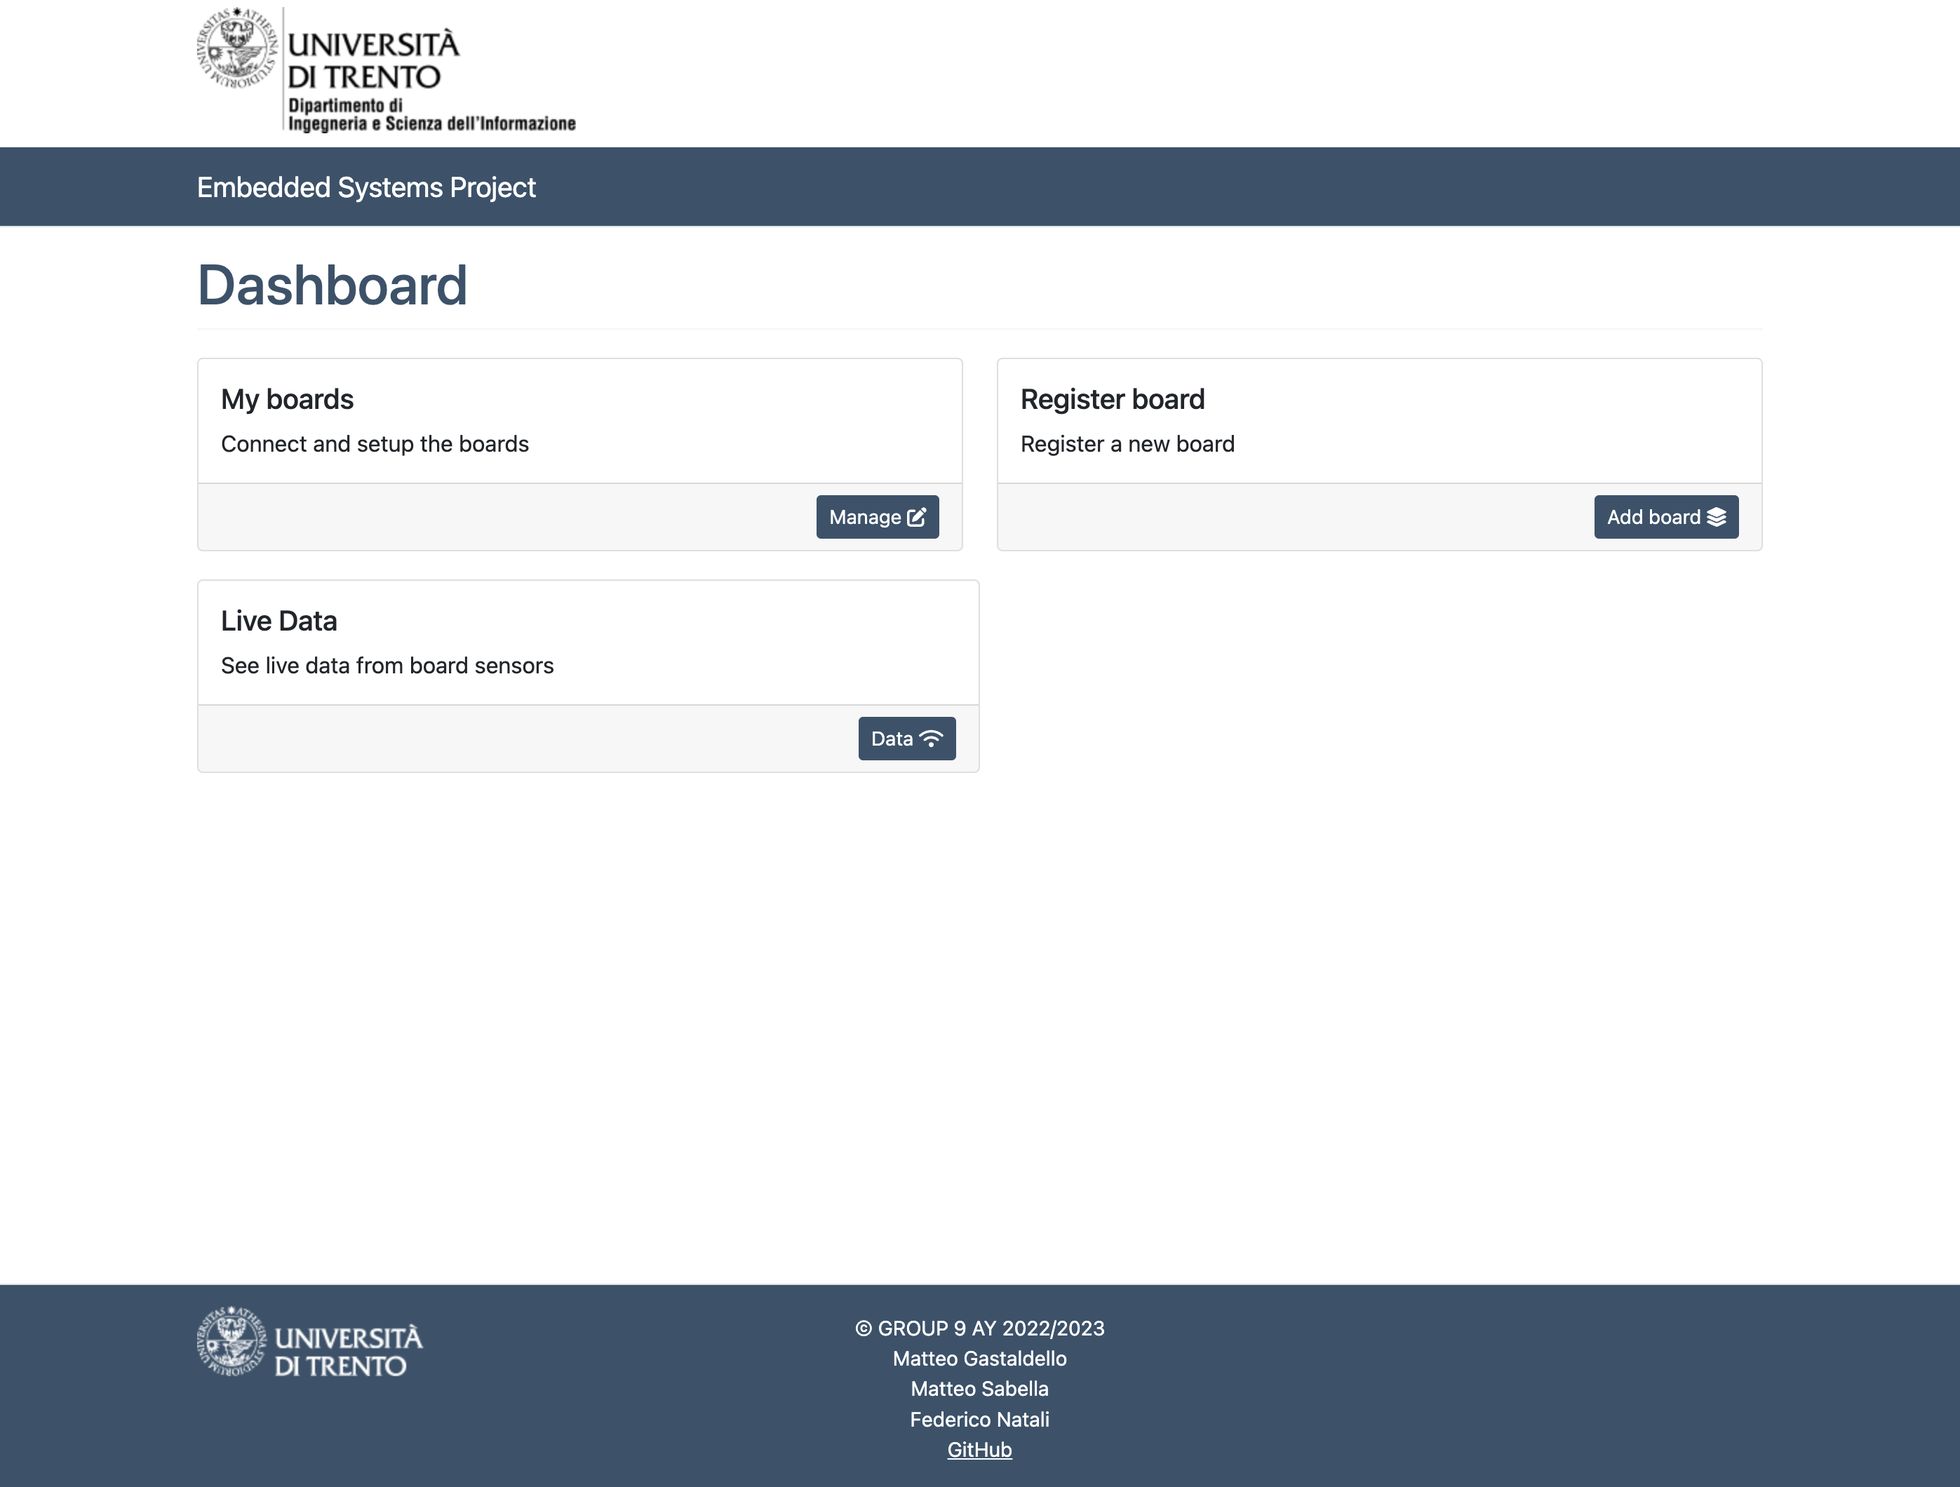
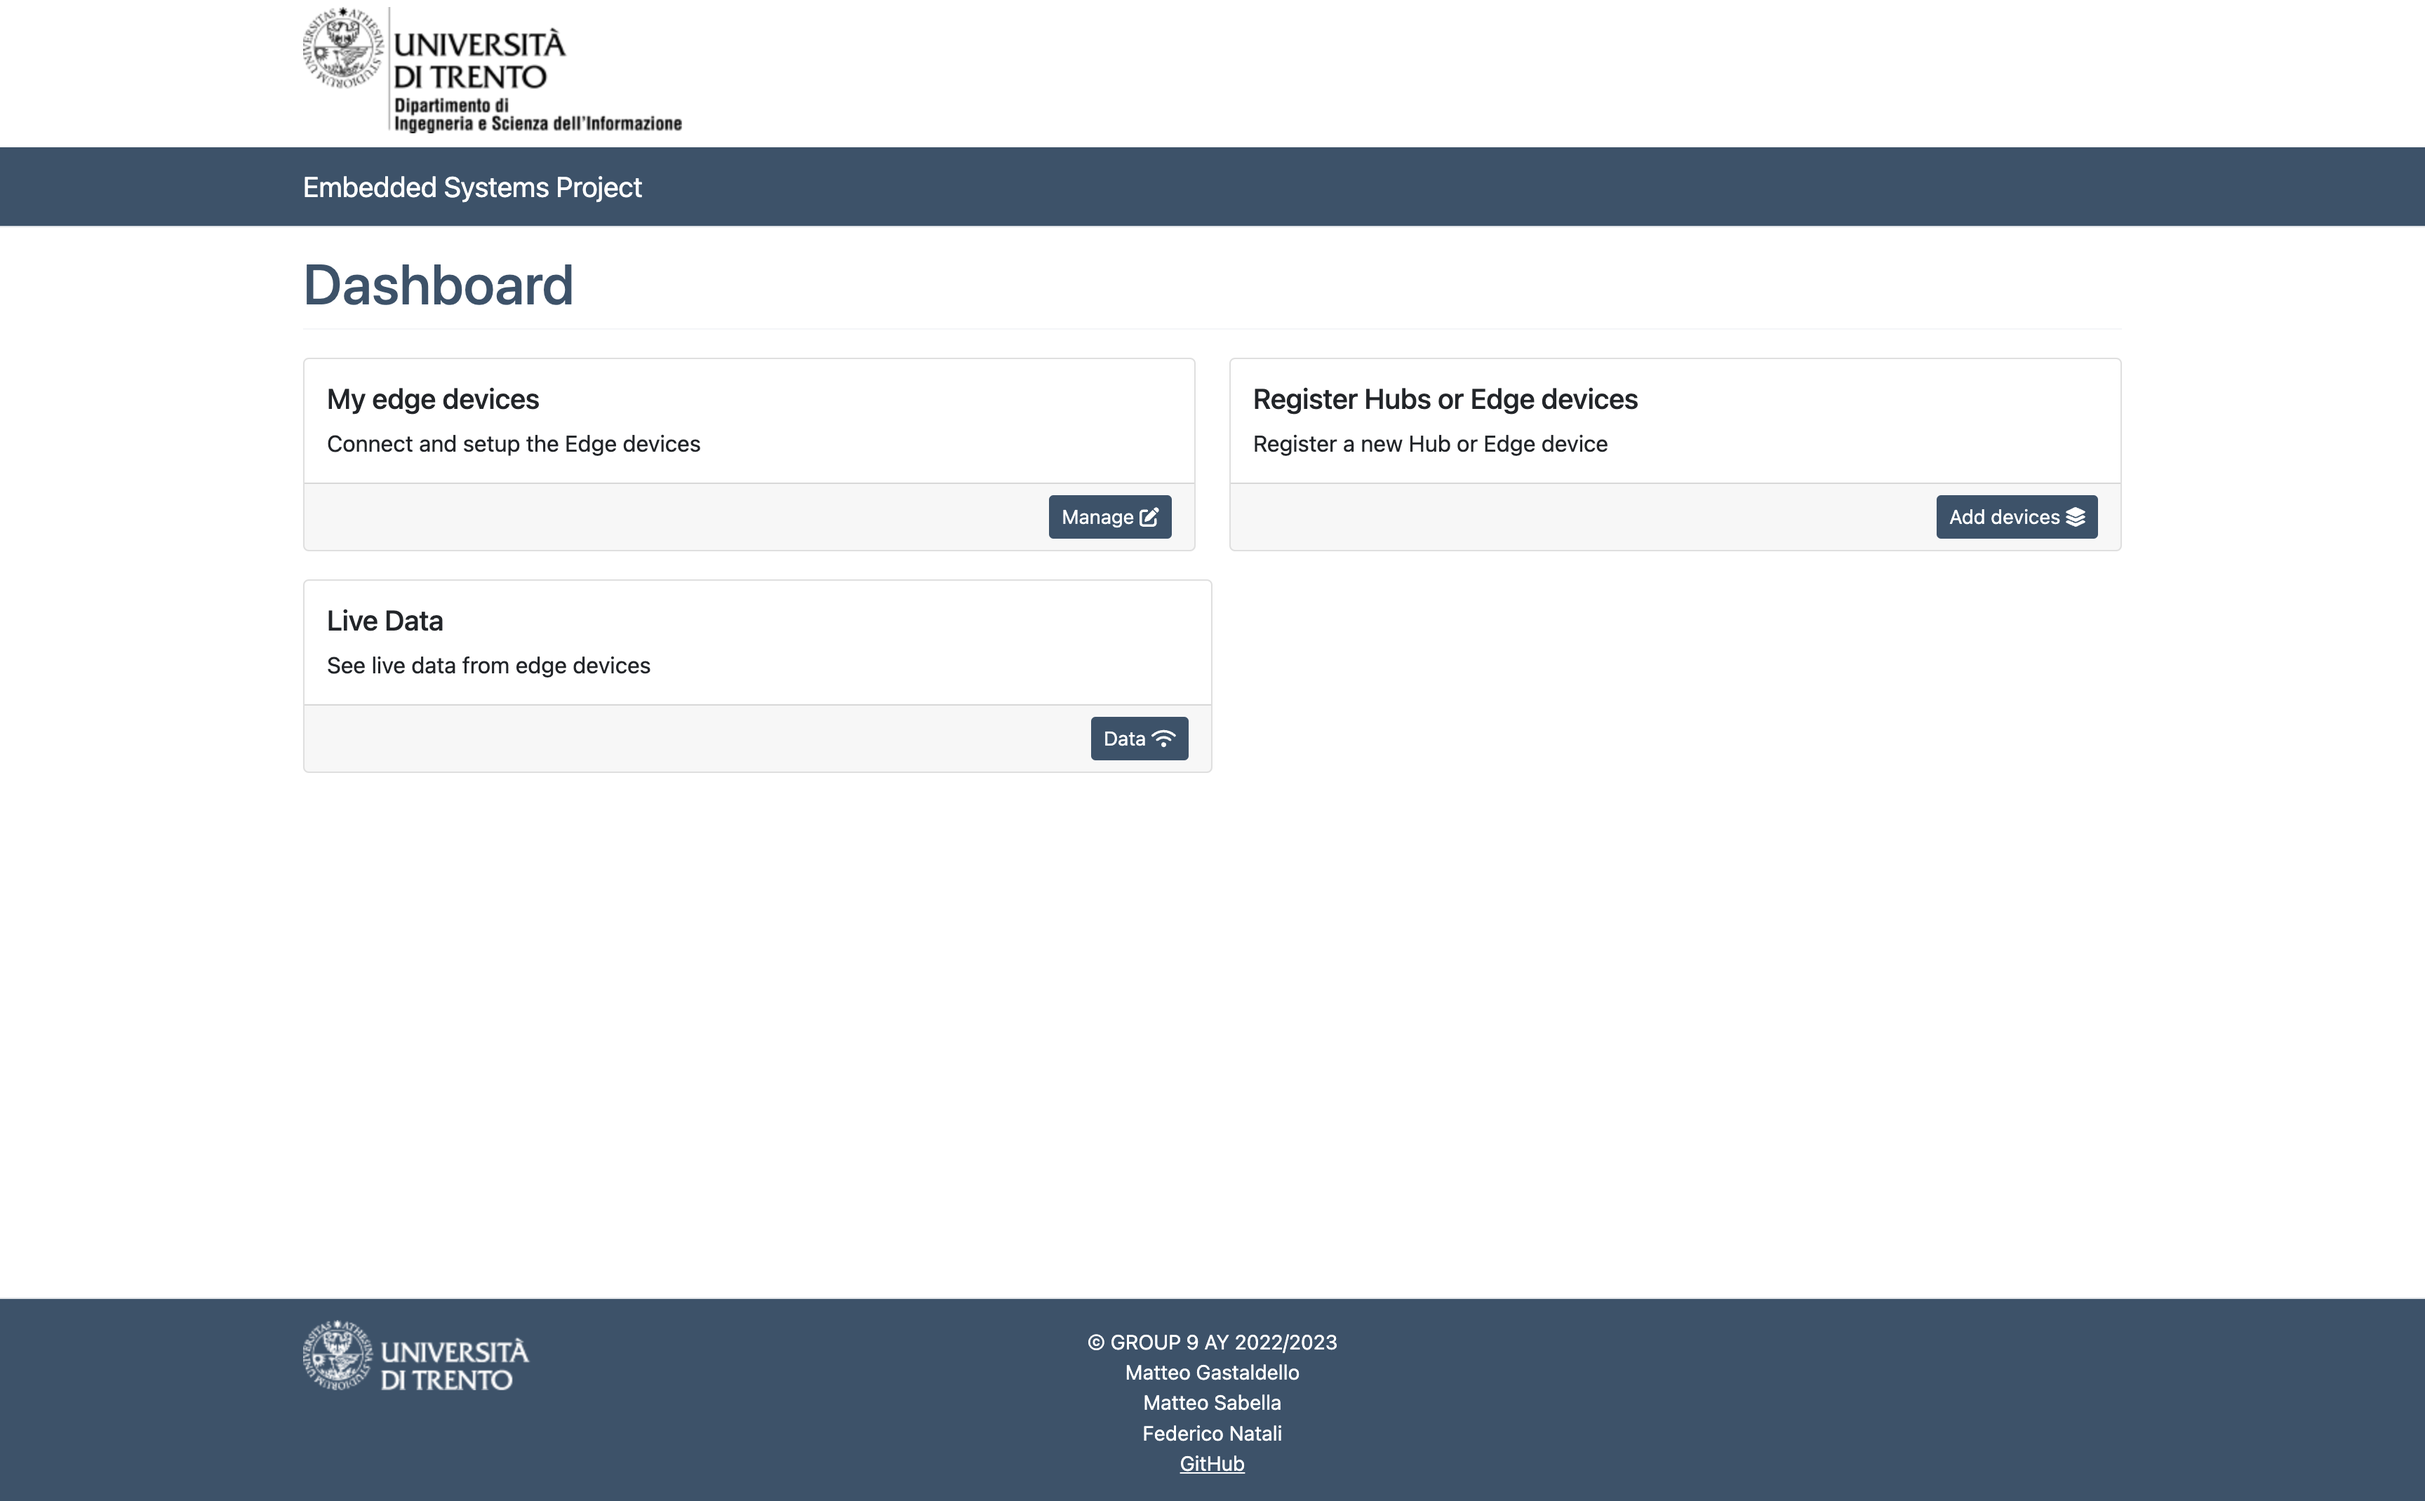
fixes

diff --git a/mqttDashboard/src/app/core/pages/welcome-page/welcome-page.component.html b/mqttDashboard/src/app/core/pages/welcome-page/welcome-page.component.html
@@ -3,14 +3,13 @@
   <div class="col-md-6 my-1">
     <div class="card">
       <div class="card-body">
-        <h5 class="card-title"><i class="bi bi-ticket-detailed"></i>My boards</h5>
-        <p class="card-text">Connect and setup the boards</p>
+        <h5 class="card-title"><i class="bi bi-ticket-detailed"></i>My edge devices</h5>
+        <p class="card-text">Connect and setup the Edge devices</p>
       </div>
       <div class="card-footer text-muted text-end">
         <div class="btn-group">
           <button type="button" class="btn btn-sm btn-primary" [routerLink]="['/manage']">Manage <fa-icon
               icon="pen-to-square"></fa-icon></button>
-          <!-- <button type="button" class="btn btn-sm btn-secondary" [routerLink]="['/user/history']">Storico <fa-icon icon="history"></fa-icon></button> -->
         </div>
       </div>
     </div>
@@ -18,12 +17,12 @@
   <div class="col-md-6 my-1">
     <div class="card">
       <div class="card-body">
-        <h5 class="card-title"><i class="bi bi-ticket-detailed"></i>Register board</h5>
-        <p class="card-text">Register a new board</p>
+        <h5 class="card-title"><i class="bi bi-ticket-detailed"></i>Register Hubs or Edge devices</h5>
+        <p class="card-text">Register a new Hub or Edge device</p>
       </div>
       <div class="card-footer text-muted text-end">
         <div class="btn-group">
-          <button type="button" class="btn btn-sm btn-primary" [routerLink]="['/template']">Add board <fa-icon
+          <button type="button" class="btn btn-sm btn-primary" [routerLink]="['/template']">Add devices <fa-icon
             icon="layer-group"></fa-icon></button>
         </div>
       </div>
@@ -35,7 +34,7 @@
     <div class="card">
       <div class="card-body">
         <h5 class="card-title"><i class="bi bi-ticket-detailed"></i>Live Data</h5>
-        <p class="card-text">See live data from board sensors</p>
+        <p class="card-text">See live data from edge devices</p>
       </div>
       <div class="card-footer text-muted text-end">
         <div class="btn-group">
@@ -45,21 +44,3 @@
     </div>
   </div>
 </div>
-<!-- <h2>Admin</h2>
-<hr>
-<div class="row mb-3">
-  <div class="col-md-6 my-1">
-    <div class="card">
-      <div class="card-body">
-        <h5 class="card-title"><i class="bi bi-ticket-detailed"></i>Firmware</h5>
-        <p class="card-text">Add a new template to command your boards</p>
-      </div>
-      <div class="card-footer text-muted text-end">
-        <div class="btn-group">
-          <button type="button" class="btn btn-sm btn-primary" [routerLink]="['/firmware']">Add Firmware <fa-icon
-            icon="circle-up"></fa-icon></button>
-        </div>
-      </div>
-    </div>
-  </div>
-</div> -->

diff --git a/mqttDashboard/src/app/core/pages/board-setup-page/board-setup.component.html b/mqttDashboard/src/app/core/pages/board-setup-page/board-setup.component.html
@@ -1,6 +1,6 @@
 <div class="row mb-3 pb-2 border-bottom border-light">
     <div class="col-md-10">
-        <h1 class="text-primary">Add new Board</h1>
+        <h1 class="text-primary">Add new Device</h1>
     </div>
     <div class="col-md">
         <div class="btn-group">
@@ -36,14 +36,14 @@
 </div>
 <div *ngIf="boardsLookup && !success">
     <div *ngIf="boards.length == 0">
-        <h3>Looking for boards...</h3>
+        <h3>Looking for devices...</h3>
         <div class="spinner-border text-primary" role="status">
             <span class="sr-only"></span>
         </div>
         <br>
-        <small class="text-muted">Make sure that your board is in paring mode on the same Wi-Fi network as your Hub.</small>
+        <small class="text-muted">Make sure that your device is in paring mode on the same Wi-Fi network as your Hub.</small>
     </div>
-    <h3 *ngIf="boards.length > 0">Available boards</h3>
+    <h3 *ngIf="boards.length > 0">Available devices</h3>
     <table class="table table-striped" *ngIf="boards.length > 0">
         <tbody>
             <tr *ngFor="let board of boards">
@@ -53,7 +53,7 @@
                 <td align="right">
                     <button class="btn btn-primary" (click)="selectBoard(board)"
                         *ngIf="!boardIsMine(board)">Setup</button>
-                    <button class="btn btn-success text-white" *ngIf="boardIsMine(board)">Board already
+                    <button class="btn btn-success text-white" *ngIf="boardIsMine(board)">Device already
                         registered</button>
                 </td>
             </tr>
@@ -61,7 +61,7 @@
     </table>
 </div>
 <div *ngIf="success">
-    <h3>New board added</h3>
+    <h3>New device added</h3>
     <div class="btn-group">
         <button type="button" class="btn btn-sm btn-primary" [routerLink]="['/dashboard']">Go back to the dashboard
             <fa-icon icon="table-columns"></fa-icon></button>

diff --git a/mqttDashboard/src/app/core/pages/board-manage-page/board-manage.component.html b/mqttDashboard/src/app/core/pages/board-manage-page/board-manage.component.html
@@ -1,6 +1,6 @@
 <div class="row mb-3 pb-2 border-bottom border-light">
     <div class="col-md-10">
-        <h1 class="text-primary">Choose board</h1>
+        <h1 class="text-primary">Choose device</h1>
     </div>
     <div class="col-md">
         <div class="btn-group">
@@ -27,12 +27,12 @@
                 </td>
                 <td align="right">
                     <button class="btn btn-primary" (click)="selectBoard(board)" *ngIf="board != focusBoard">Setup</button>
-                    <button class="btn btn-danger" (click)="exitSetup()" *ngIf="board == focusBoard">Exit</button>
+                    <button class="btn btn-danger" (click)="exitSetup()" *ngIf="board == focusBoard">Close</button>
                 </td>
             </tr>
         </tbody>
     </table>
-    <h3 *ngIf="boards.length == 0">No board registered to user</h3>
+    <h3 *ngIf="boards.length == 0">No device registered to user</h3>
     <div *ngIf="loaded && fields.length > 0">
         <h3 class="mb-3 pb-2 border-bottom border-light text-primary">{{focusBoard.name}}</h3>
         <div *ngFor="let field of names; let i = index;">
@@ -45,7 +45,7 @@
         <br>
     </div>
     <div *ngIf="loaded && fields.length == 0">
-        <h3 class="text-danger">No remote commands available for the selected board.</h3>
+        <h3 class="text-danger">No remote commands available for the selected device.</h3>
     </div>
 </div>
 <div *ngIf="sent">

diff --git a/mqttDashboard/src/app/core/pages/live-data-page/live-data-page.component.html b/mqttDashboard/src/app/core/pages/live-data-page/live-data-page.component.html
@@ -9,7 +9,7 @@
         </div>
     </div>
 </div>
-<h4>Select preferred board to see available live data</h4>
+<h4>Select preferred device to see available live data</h4>
 <table class="table table-striped" *ngIf="boards.length > 0">
     <tbody>
         <tr *ngFor="let b of boards">
@@ -20,12 +20,12 @@
             </td>
             <td align="right">
                 <button *ngIf="!boardIsfocused(b)" class="btn btn-primary" (click)="selectBoard(b)">Watch</button>
-                <button *ngIf="boardIsfocused(b)" class="btn btn-danger" (click)="unwatch()">Unwatch</button>
+                <button *ngIf="boardIsfocused(b)" class="btn btn-danger" (click)="unwatch()">Close</button>
             </td>
         </tr>
     </tbody>
 </table>
-<h3 *ngIf="boards.length == 0">No board registered to user</h3>
+<h3 *ngIf="boards.length == 0">No devices registered to user</h3>
 <div *ngIf="!loaded && !DataError && flag">
     <h3 class="text-muted">Fetching data...</h3>
     <div class="spinner-border text-primary" role="status">

diff --git a/mqttDashboard/src/app/core/pages/board-setup-page/board-setup.component.ts b/mqttDashboard/src/app/core/pages/board-setup-page/board-setup.component.ts
@@ -120,6 +120,7 @@ export class BoardSetupComponent implements OnInit, OnDestroy {
 
   mqttHandler() {
     client.on('message', (topic, message, packet) => {
+      console.log(topic);
       var test = JSON.parse(message.toString());
       if (topic == 'esp-firstConfiguration') {
         if(!test['device-name']){
@@ -130,7 +131,9 @@ export class BoardSetupComponent implements OnInit, OnDestroy {
         } else {
           this.hubs.push(new Hub(test['id'], test['device-name']));
         }
+        console.log(this.hubs);
       } else {
+        console.log(test);
         if(test['device-name'] && test['success'] == true){
           if(this.boards.find(x => x.id == test['device']+test['device-name'])){
             return;

diff --git a/mqttDashboard/src/app/core/pages/remote-testing/remote-testing.component.ts b/mqttDashboard/src/app/core/pages/remote-testing/remote-testing.component.ts
@@ -39,7 +39,9 @@ export class RemoteTestingComponent implements OnInit {
     }
 
     async testBoards() {
-        client.publish('esp-C0:49:EF:CD:20:CC', JSON.stringify({ 'device-name': 'MSP432', 'id': 'C0:49:EF:CD:20:CC-MSP432' }));
+        client.publish('esp-C0:49:EF:CD:20:CC', JSON.stringify({ 'device-name': 'MSP432', 'device': 'C0:49:EF:CD:20:CC', 'success': true }));
+        client.publish('esp-C0:49:EF:CD:20:CC', JSON.stringify({ 'device-name': 'MSP430', 'device': 'C0:49:EF:CD:20:CC', 'success': true }));
+        client.publish('esp-C0:49:EF:CD:20:CC', JSON.stringify({ 'device-name': 'MatterSensor', 'device': 'C0:49:EF:CD:20:CC', 'success': true }));
     }
 
     async testSensors() {

diff --git a/mqttDashboard/src/app/core/pages/board-firmware-page/board-firmware.component.html b/mqttDashboard/src/app/core/pages/board-firmware-page/board-firmware.component.html
@@ -12,7 +12,7 @@
 <form (ngSubmit)="submitForm()" *ngIf="!success">
     <div class="row">
          <div class="form-group col-md-6">
-            <label for="boardName">Board Name:</label>
+            <label for="boardName">Device Name:</label>
             <input type="text" class="form-control" placeholder="Board name" [(ngModel)]="name"
                 [ngModelOptions]="{standalone: true}" />
         </div>
